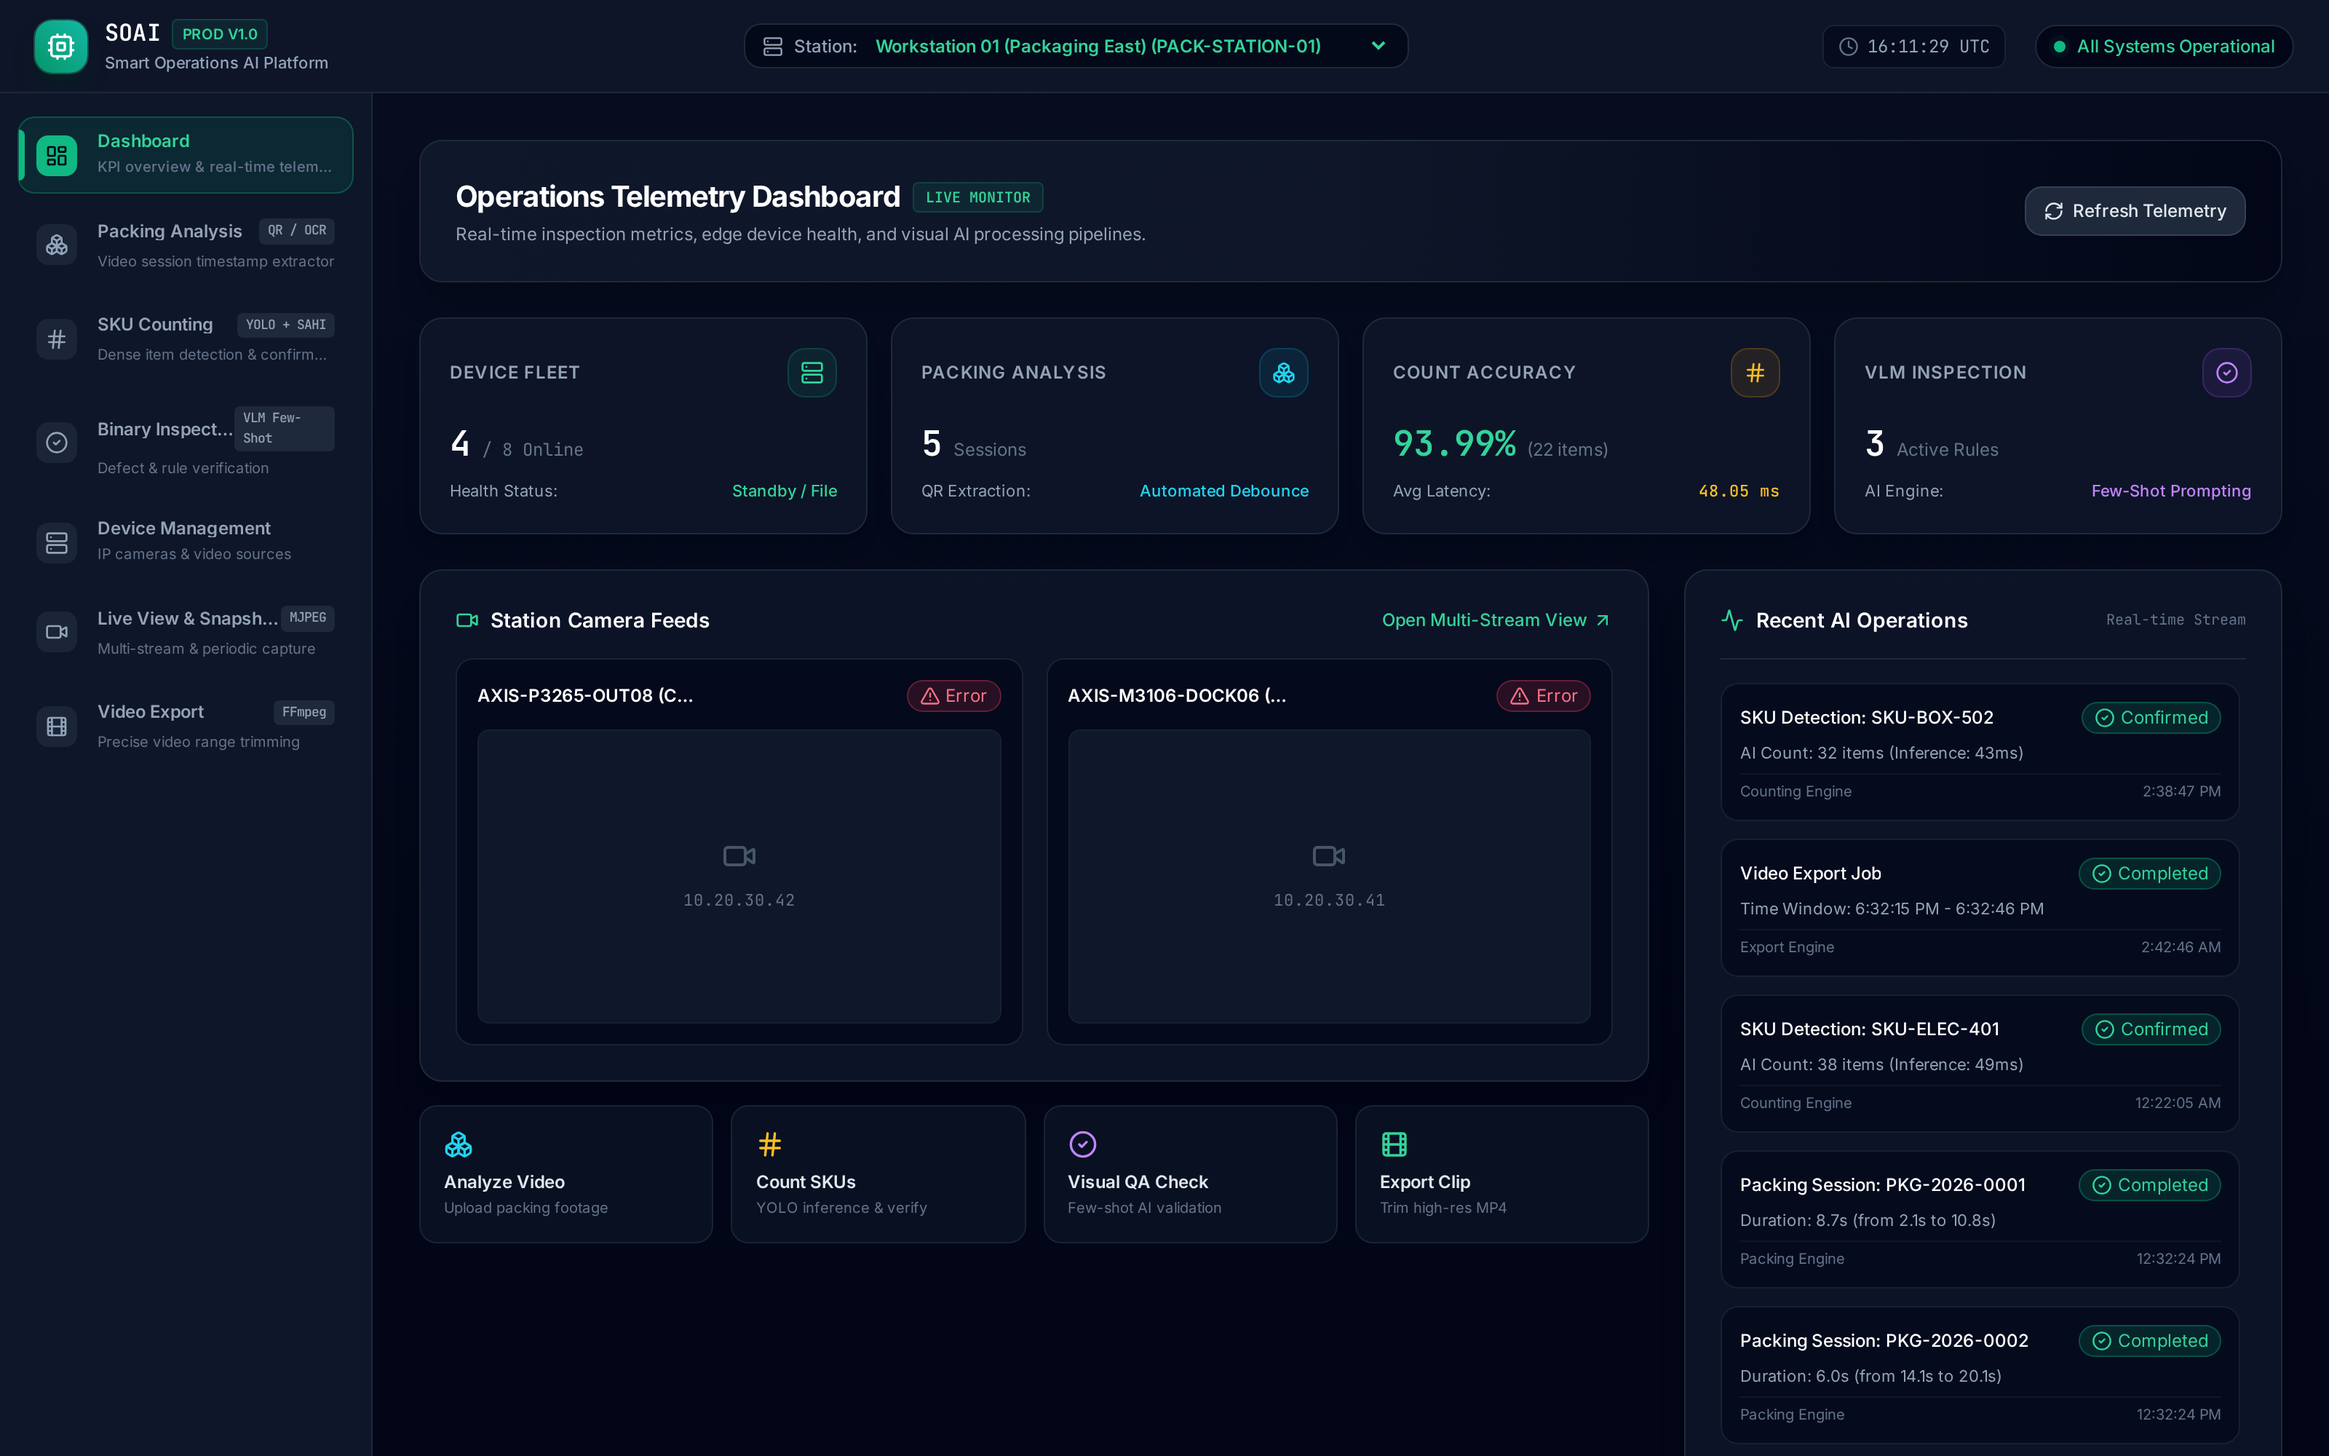
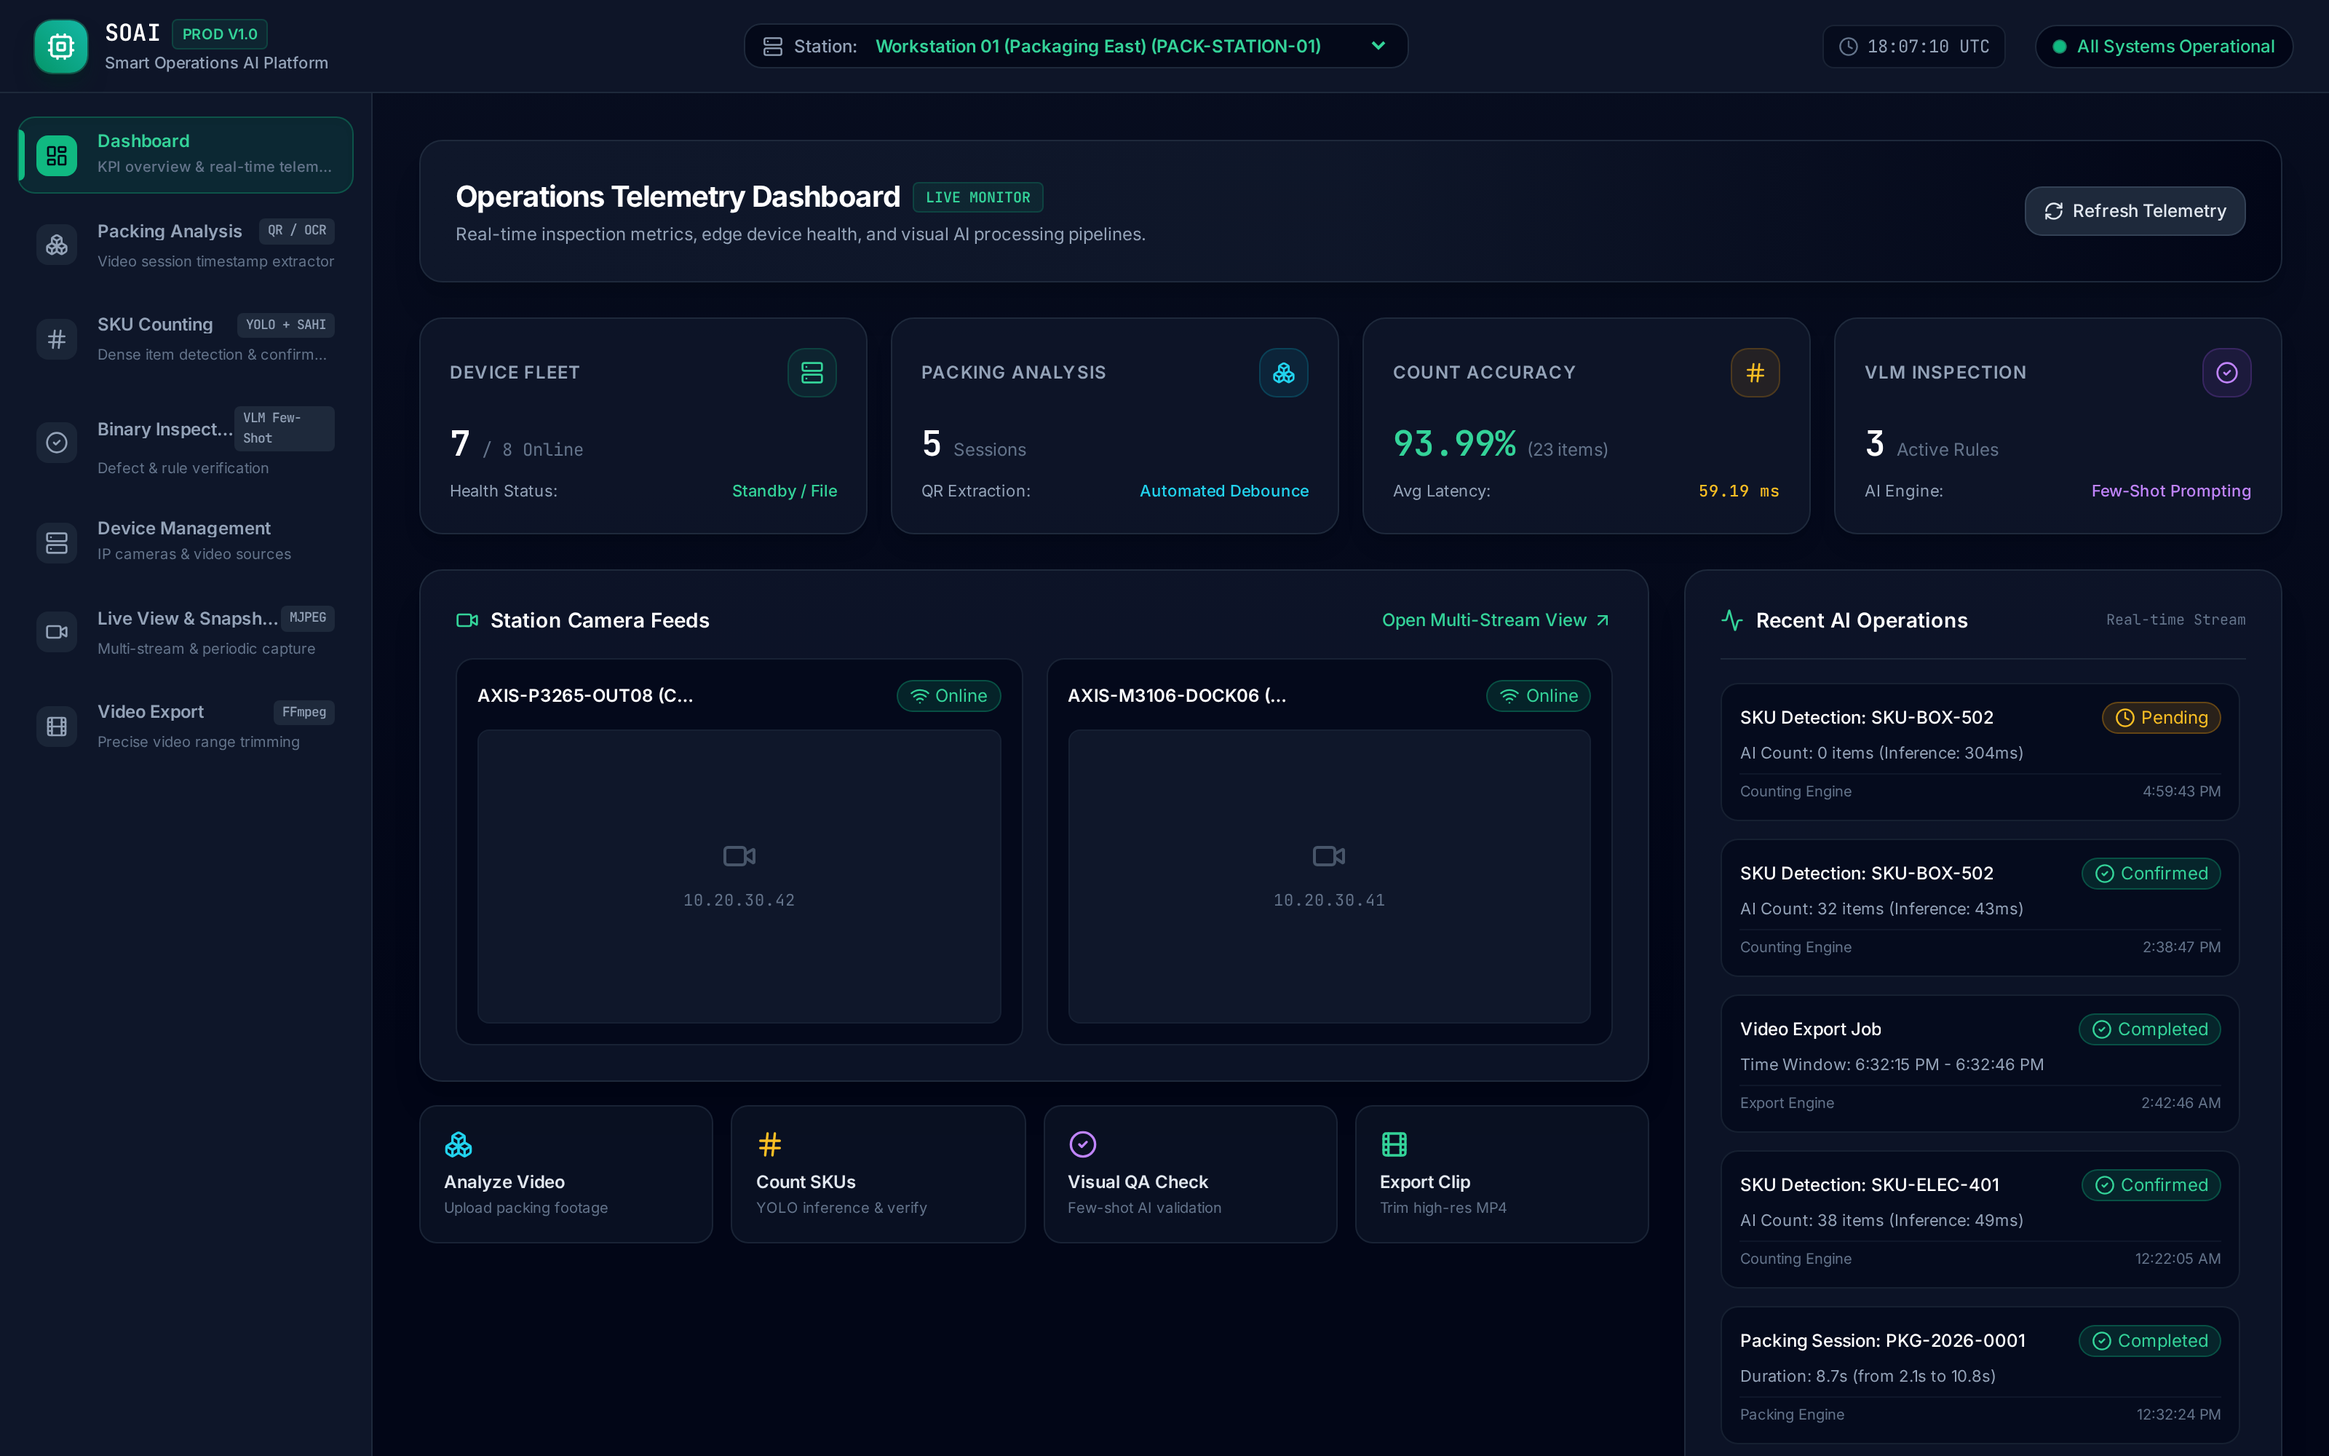
Fix header wrapping, hero crop, and Axis device demo data
Header: the desktop nav now appears at xl (1280px) instead of lg,
because two-word Vietnamese and Swedish nav labels wrapped onto two
lines at narrower widths; the hamburger menu now covers 1024-1279px.
Also fixed a latent bug where 1024-1279px showed a hamburger button
with no drawer.

Hero: the dashboard screenshot is now a CSS crop focused on the KPI
row so its text is actually legible instead of a 7:1 downscale;
caption and eyebrow contrast raised from ~3.75:1 to ~7.21:1 to meet
WCAG AA; the image column is offset on mobile so the floating contact
widget no longer covers it.

SOAI page: screenshots redistributed next to the content they
illustrate rather than sitting in one six-image gallery block; the
walkthrough video now has a poster frame instead of rendering as a
blank box.

Demo data: Axis-branded cameras in the seeded SOAI data were showing
"Error / Last Seen: Never". Since the site's primary audience is a
due-diligence reviewer at Axis Communications, the screenshots were
regenerated with those devices healthy. One non-Axis device is
intentionally left offline so the fleet does not look staged.

diff --git a/app/[locale]/giai-phap/soai/page.tsx b/app/[locale]/giai-phap/soai/page.tsx
@@ -419,6 +419,17 @@ export default async function SoaiPage({
   const locale = (rawLocale === 'vi' ? 'vi' : 'en') as 'vi' | 'en';
   const t = pick(rawLocale);
 
+  // Pull specific screenshots out of the flat list so each one can sit next to the
+  // argument it proves, instead of dumping all six into one gallery grid.
+  const findShot = (filename: string) => t.screenshots.find((s) => s.src.endsWith(filename));
+  const packingShot = findShot('packing.png');
+  const skuCountingDetailShot = findShot('sku-counting-detail.png');
+  const devicesShot = findShot('devices.png');
+  const placedFilenames = ['packing.png', 'sku-counting-detail.png', 'devices.png'];
+  const remainingShots = t.screenshots.filter(
+    (s) => !placedFilenames.some((name) => s.src.endsWith(name))
+  );
+
   return (
     <>
       <Header />
@@ -480,6 +491,37 @@ export default async function SoaiPage({
                         <p className="text-body text-navy-400 leading-relaxed">{p.dataFlow}</p>
                       </div>
                     </div>
+
+                    {idx === 0 && packingShot && skuCountingDetailShot && (
+                      <div className="grid grid-cols-1 sm:grid-cols-2 gap-4 pt-2">
+                        <figure className="space-y-1.5">
+                          <div className="border border-line rounded-lg overflow-hidden shadow-sm bg-white">
+                            <Image
+                              src={packingShot.src}
+                              alt={packingShot.alt}
+                              width={packingShot.width}
+                              height={packingShot.height}
+                              sizes="(min-width: 768px) 25vw, 100vw"
+                              className="w-full h-auto max-w-full block"
+                            />
+                          </div>
+                          <figcaption className="text-caption font-mono text-navy-400">{packingShot.caption}</figcaption>
+                        </figure>
+                        <figure className="space-y-1.5">
+                          <div className="border border-line rounded-lg overflow-hidden shadow-sm bg-white">
+                            <Image
+                              src={skuCountingDetailShot.src}
+                              alt={skuCountingDetailShot.alt}
+                              width={skuCountingDetailShot.width}
+                              height={skuCountingDetailShot.height}
+                              sizes="(min-width: 768px) 25vw, 100vw"
+                              className="w-full h-auto max-w-full block"
+                            />
+                          </div>
+                          <figcaption className="text-caption font-mono text-navy-400">{skuCountingDetailShot.caption}</figcaption>
+                        </figure>
+                      </div>
+                    )}
                   </div>
                 );
               })}
@@ -495,31 +537,49 @@ export default async function SoaiPage({
               <p className="text-body text-navy-400 leading-relaxed">{t.modulesNote}</p>
             </div>
 
-            <div className="overflow-x-auto border border-line bg-white">
-              <table className="w-full min-w-[640px] text-body">
-                <thead>
-                  <tr>
-                    <th className="text-left font-mono text-caption uppercase tracking-wider text-navy-400 font-medium px-4 py-3 border-b border-line bg-paper">
-                      {t.moduleCol}
-                    </th>
-                    <th className="text-left font-mono text-caption uppercase tracking-wider text-navy-400 font-medium px-4 py-3 border-b border-line bg-paper">
-                      {t.capabilityCol}
-                    </th>
-                    <th className="text-left font-mono text-caption uppercase tracking-wider text-navy-400 font-medium px-4 py-3 border-b border-line bg-paper whitespace-nowrap">
-                      {t.stackCol}
-                    </th>
-                  </tr>
-                </thead>
-                <tbody>
-                  {t.modules.map((m, idx) => (
-                    <tr key={idx} className="border-b border-line last:border-b-0">
-                      <td className="px-4 py-3.5 font-semibold text-ink align-top whitespace-nowrap">{m.name}</td>
-                      <td className="px-4 py-3.5 text-navy-400 align-top">{m.capability}</td>
-                      <td className="px-4 py-3.5 font-mono text-caption text-navy-400 align-top whitespace-nowrap">{m.stack}</td>
+            <div className="grid grid-cols-1 lg:grid-cols-3 gap-8 items-start">
+              <div className="lg:col-span-2 overflow-x-auto border border-line bg-white">
+                <table className="w-full min-w-[640px] text-body">
+                  <thead>
+                    <tr>
+                      <th className="text-left font-mono text-caption uppercase tracking-wider text-navy-400 font-medium px-4 py-3 border-b border-line bg-paper">
+                        {t.moduleCol}
+                      </th>
+                      <th className="text-left font-mono text-caption uppercase tracking-wider text-navy-400 font-medium px-4 py-3 border-b border-line bg-paper">
+                        {t.capabilityCol}
+                      </th>
+                      <th className="text-left font-mono text-caption uppercase tracking-wider text-navy-400 font-medium px-4 py-3 border-b border-line bg-paper whitespace-nowrap">
+                        {t.stackCol}
+                      </th>
                     </tr>
-                  ))}
-                </tbody>
-              </table>
+                  </thead>
+                  <tbody>
+                    {t.modules.map((m, idx) => (
+                      <tr key={idx} className="border-b border-line last:border-b-0">
+                        <td className="px-4 py-3.5 font-semibold text-ink align-top whitespace-nowrap">{m.name}</td>
+                        <td className="px-4 py-3.5 text-navy-400 align-top">{m.capability}</td>
+                        <td className="px-4 py-3.5 font-mono text-caption text-navy-400 align-top whitespace-nowrap">{m.stack}</td>
+                      </tr>
+                    ))}
+                  </tbody>
+                </table>
+              </div>
+
+              {devicesShot && (
+                <figure className="space-y-1.5">
+                  <div className="border border-line rounded-lg overflow-hidden shadow-sm bg-white">
+                    <Image
+                      src={devicesShot.src}
+                      alt={devicesShot.alt}
+                      width={devicesShot.width}
+                      height={devicesShot.height}
+                      sizes="(min-width: 1024px) 33vw, 100vw"
+                      className="w-full h-auto max-w-full block"
+                    />
+                  </div>
+                  <figcaption className="text-caption font-mono text-navy-400">{devicesShot.caption}</figcaption>
+                </figure>
+              )}
             </div>
           </div>
         </section>
@@ -532,7 +592,7 @@ export default async function SoaiPage({
             </div>
 
             <div className="grid grid-cols-1 md:grid-cols-2 gap-x-8 gap-y-10">
-              {t.screenshots.map((s, idx) => (
+              {remainingShots.map((s, idx) => (
                 <figure key={idx} className="space-y-2">
                   <div className="border border-line rounded-lg overflow-hidden shadow-sm bg-paper">
                     <Image
@@ -558,6 +618,7 @@ export default async function SoaiPage({
                   playsInline
                   controls
                   preload="metadata"
+                  poster="/media/soai/walkthrough-poster.jpg"
                   className="w-full h-auto max-w-full block"
                 >
                   <source src="/media/soai/walkthrough-v3.webm" type="video/webm" />

diff --git a/components/Hero.tsx b/components/Hero.tsx
@@ -90,25 +90,44 @@ export const Hero: React.FC<HeroProps> = async () => {
           </div>
         </div>
 
-        {/* Right column: real SOAI dashboard screenshot */}
-        <div className="lg:col-span-5 flex justify-center">
+        {/*
+          Right column: real SOAI dashboard screenshot. The floating chat widget is
+          fixed to the bottom-right of the viewport on every page, so on short mobile
+          screens it can land on top of whatever content is at the bottom of the
+          initial (unscrolled) view. The extra top margin below pushes this screenshot
+          block down far enough that the widget's circle sits over empty hero
+          background instead of the image — the image itself remains fully visible
+          once the visitor scrolls a little further.
+        */}
+        <div className="lg:col-span-5 flex justify-center mt-20 sm:mt-0">
           <div className="relative w-full max-w-[480px] bg-paper/5 rounded-2xl border border-white/10 p-4 shadow-2xl backdrop-blur-sm">
-            <p className="text-caption font-mono uppercase tracking-wider text-white/40 mb-3">
+            <p className="text-caption font-mono uppercase tracking-wider text-white/60 mb-3">
               {t.diagramLabel}
             </p>
 
-            <div className="rounded-xl border border-white/10 shadow-2xl overflow-hidden bg-ink-800">
-              <Image
-                src="/media/soai/dashboard.png"
-                alt={t.dashboardAlt}
-                width={3200}
-                height={2000}
-                sizes="(min-width: 1024px) 480px, 100vw"
-                className="w-full h-auto max-w-full block"
-                priority
-              />
+            {/*
+              Tighter crop: full-resolution dashboard.png is 3200x2000, but this column
+              is only ~480px wide, so showing the whole frame shrinks every number and
+              label past legibility. Instead we crop to the header + KPI-card band (the
+              part of the dashboard that actually carries meaning at this size) using a
+              fixed-aspect, overflow-hidden viewport plus an oversized/offset inner
+              image. Percentages (not pixel coordinates) are used so the crop stays
+              anchored to the same region even if the regenerated screenshot's content
+              shifts slightly.
+            */}
+            <div className="relative w-full aspect-[39/20] rounded-xl border border-white/10 shadow-2xl overflow-hidden bg-ink-800">
+              <div className="absolute" style={{ width: '222%', height: '270%', left: '-122%', top: '-27%' }}>
+                <Image
+                  src="/media/soai/dashboard.png"
+                  alt={t.dashboardAlt}
+                  fill
+                  sizes="(min-width: 1024px) 1067px, 222vw"
+                  className="object-cover"
+                  priority
+                />
+              </div>
             </div>
-            <p className="mt-2 text-caption font-mono text-white/40">{t.dashboardCaption}</p>
+            <p className="mt-2 text-caption font-mono text-white/60">{t.dashboardCaption}</p>
           </div>
         </div>
       </div>

diff --git a/components/Header.tsx b/components/Header.tsx
@@ -109,19 +109,19 @@ export const Header: React.FC<HeaderProps> = () => {
           <Logo variant="negative" />
         </a>
 
-        <nav aria-label="Primary" className="hidden lg:flex items-center gap-5 xl:gap-7">
+        <nav aria-label="Primary" className="hidden xl:flex items-center gap-5 xl:gap-7">
           {t.navLinks.map((link) => (
             <a
               key={link.href}
               href={hrefFor(link.href)}
-              className="text-body font-semibold text-white/80 hover:text-white transition-colors min-h-[44px] flex items-center"
+              className="text-body font-semibold text-white/80 hover:text-white transition-colors min-h-[44px] flex items-center whitespace-nowrap"
             >
               {link.label}
             </a>
           ))}
         </nav>
 
-        <div className="hidden lg:flex items-center gap-4 xl:gap-6 shrink-0">
+        <div className="hidden xl:flex items-center gap-4 xl:gap-6 shrink-0">
           <LocaleSwitcher />
           <a
             href={`/${locale}#lead-capture`}
@@ -137,7 +137,7 @@ export const Header: React.FC<HeaderProps> = () => {
           aria-expanded={menuOpen}
           aria-controls="mobile-nav"
           aria-label={menuOpen ? t.menuOpen : t.menuClosed}
-          className="lg:hidden w-11 h-11 flex items-center justify-center text-white shrink-0"
+          className="xl:hidden w-11 h-11 flex items-center justify-center text-white shrink-0"
         >
           {menuOpen ? <X className="w-6 h-6" /> : <Menu className="w-6 h-6" />}
         </button>
@@ -147,7 +147,7 @@ export const Header: React.FC<HeaderProps> = () => {
         <nav
           id="mobile-nav"
           aria-label="Mobile navigation"
-          className="lg:hidden border-t border-white/10 px-6 py-4 space-y-1 bg-ink"
+          className="xl:hidden border-t border-white/10 px-6 py-4 space-y-1 bg-ink"
         >
           {t.navLinks.map((link) => (
             <a
